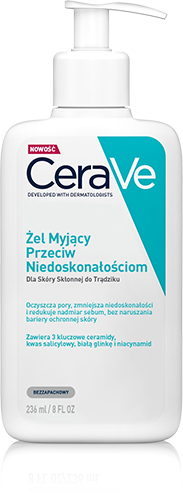
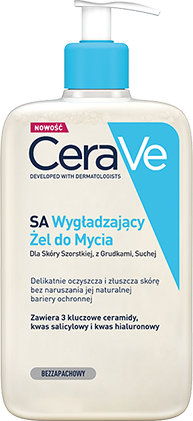
Change cross section

diff --git a/src/index.html b/src/index.html
@@ -134,32 +134,17 @@
           <div class="es-cross__single">
             <p class="es-cross__number">1</p>
             <img src="./images/cross-1.png" alt="" class="es-cross__image">
-            <p class="es-cross__subtitle">Żel Myjący Przeciw Niedoskonałościom</p>
-            <p class="es-cross__desc">Umyj twarz używając Żelu Myjącego Przeciw Niedoskonałościom, który oczyszcza pory, wspomaga zmniejszenie niedoskonałości
-              oraz&nbsp;redukuje nadmiar sebum, nie&nbsp;naruszając bariery ochronnej skóry.
+            <p class="es-cross__subtitle">SA ŻEL WYGŁADZAJĄCY DO MYCIA</p>
+            <p class="es-cross__desc">Delikatnie oczyszcza i&nbsp;złuszcza skórę już&nbsp;podczas mycia
             </p>
-            <a href="#" class="es-cross__link">Dowiedz się więcej</a>
           </div>
           <div class="es-cross__single">
-            <p class="es-cross__number">2</p>
+            <p class="es-cross__number es-cross__number--2">2</p>
             <img src="./images/cross-2.png" alt="" class="es-cross__image">
-            <p class="es-cross__subtitle">Odbudowujące Serum<br>
+            <p class="es-cross__subtitle">SA Wygładzający Balsam<br>
               z Retinolem</p>
-            <p class="es-cross__desc">Na osuszoną skórę twarzy nałóż Odbudowujące Serum
-              z&nbsp;Retinolem, które wygładza skórę i&nbsp;zmniejsza widoczność zmian potrądzikowych, bez&nbsp;podrażnień i&nbsp;naruszania bariery ochronnej skóry.</p>
-          </div>
-          <div class="es-cross__single">
-            <p class="es-cross__number">3</p>
-            <img src="./images/cross-3.png" alt="" class="es-cross__image">
-            <p class="es-cross__subtitle">Nawilżający Krem<br>
-              do Twarzy</p>
-            <p class="es-cross__desc">Po aplikacji serum nałóż Nawilżający Krem do&nbsp;Twarzy, który dogłębnie nawilża skórę.
-              <br class="es-desktop-break">
-              <br class="es-desktop-break">
-              <br class="es-desktop-break">
-              <br class="es-desktop-break">
-            </p>
-            <a href="#" class="es-cross__link">Dowiedz się więcej</a>
+            <p class="es-cross__desc">Zawiera dodatkowo mocznik, który złuszcza, zmiękcza i&nbsp;wygładza szorstką skórę</p>
+              <a href="#" class="es-cross__link">Dowiedz się więcej</a>
           </div>
         </div>
       </div>

diff --git a/src/sass/style.scss b/src/sass/style.scss
@@ -345,7 +345,7 @@ body {
       gap: 40px 20px;
     }
     &__single {
-      width: 250px;
+      width: 300px;
       display: flex;
       flex-direction: column;
       justify-content: flex-start;
@@ -361,14 +361,18 @@ body {
       @include text;
       position: absolute;
       top: -40px;
-      left: 20px;
-      color: $darkBlue;
+      left: 40px;
+      color: $lightBlue;
       font-size: 150px;
       font-weight: 700;
+      &--2{
+        top: 10px;
+      }
     }
     &__image {
       transition: transform 0.3s;
       @include img;
+      padding-bottom: 20px;
       z-index: 1;
       max-height: 320px;
     }
@@ -397,7 +401,7 @@ body {
       text-align: center;
       text-decoration: none;
       transition: all 0.3s ease-in-out;
-      background: #028f94;
+      background: $lightBlue;
       transition: color 0.3s ease-in-out;
       z-index: 1;
       border-radius: 8px;
